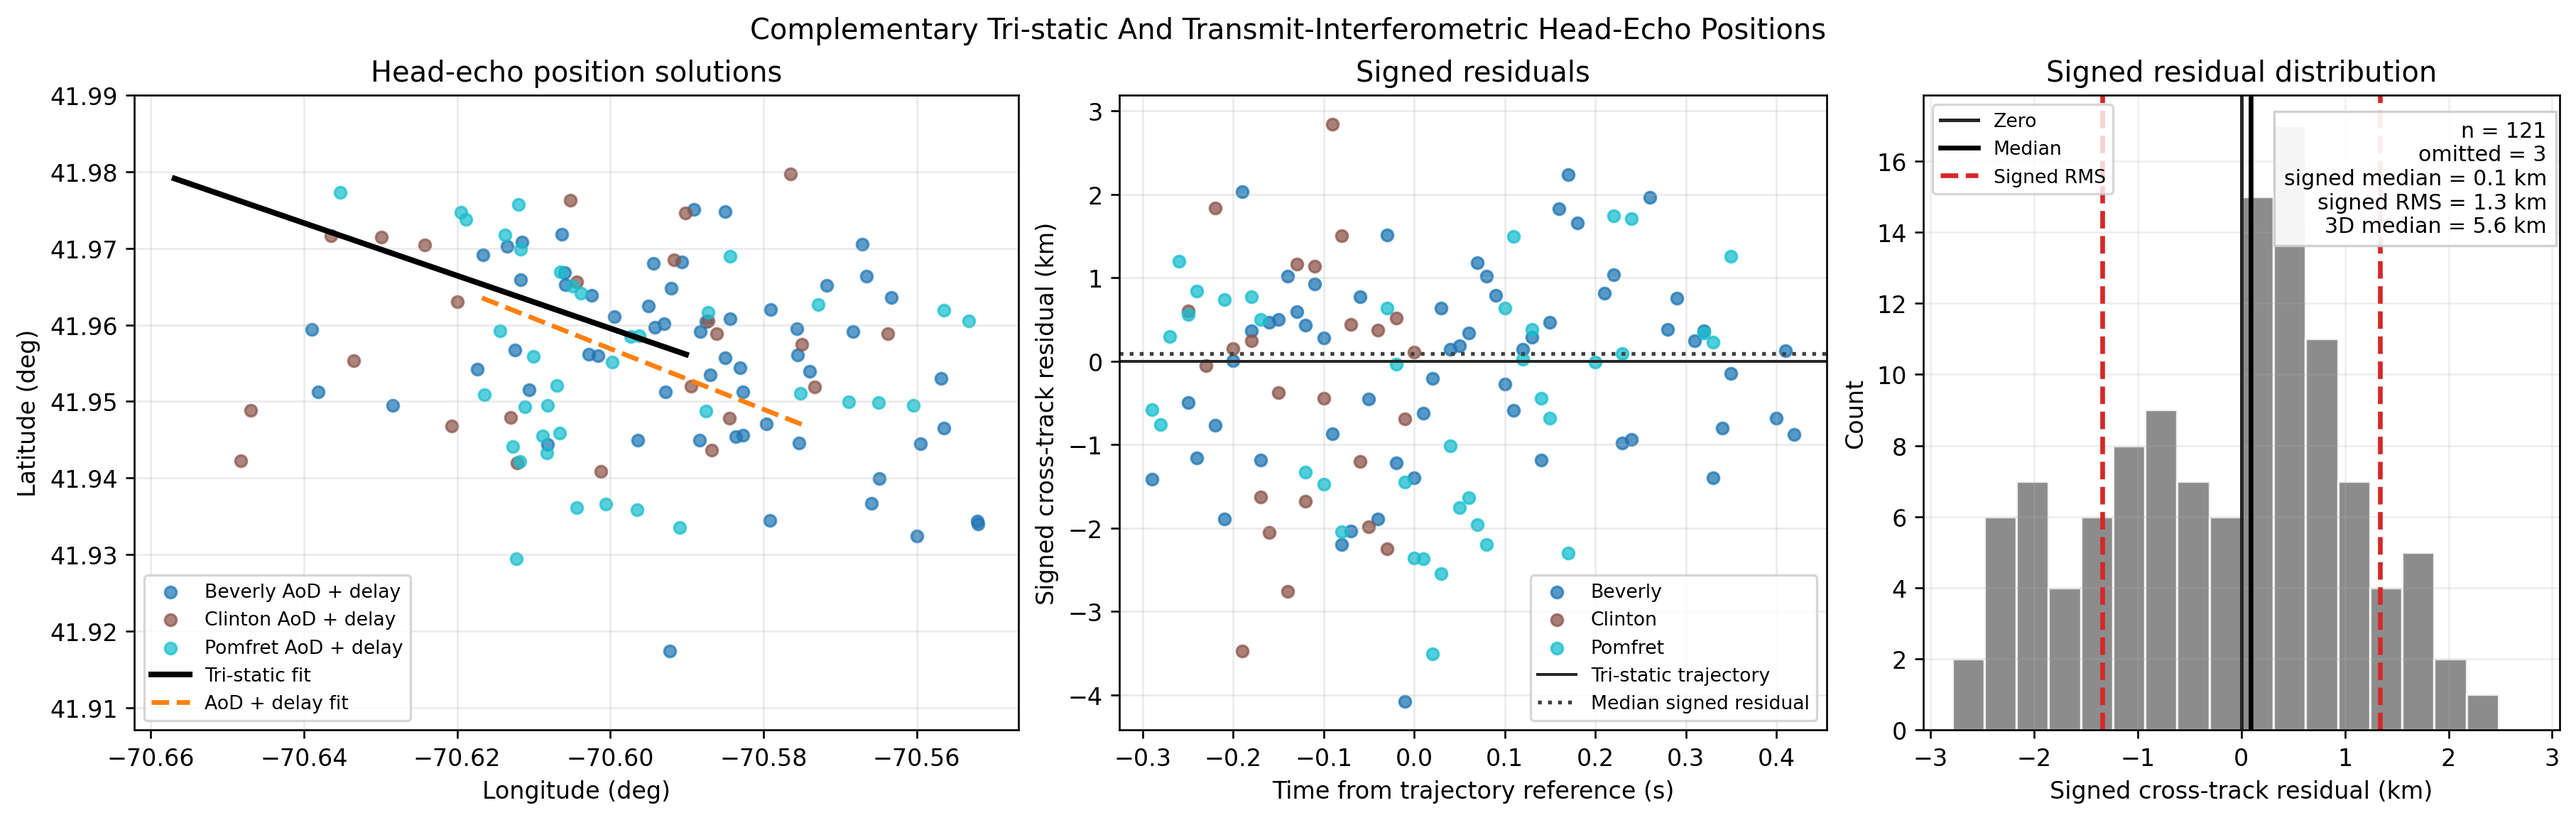
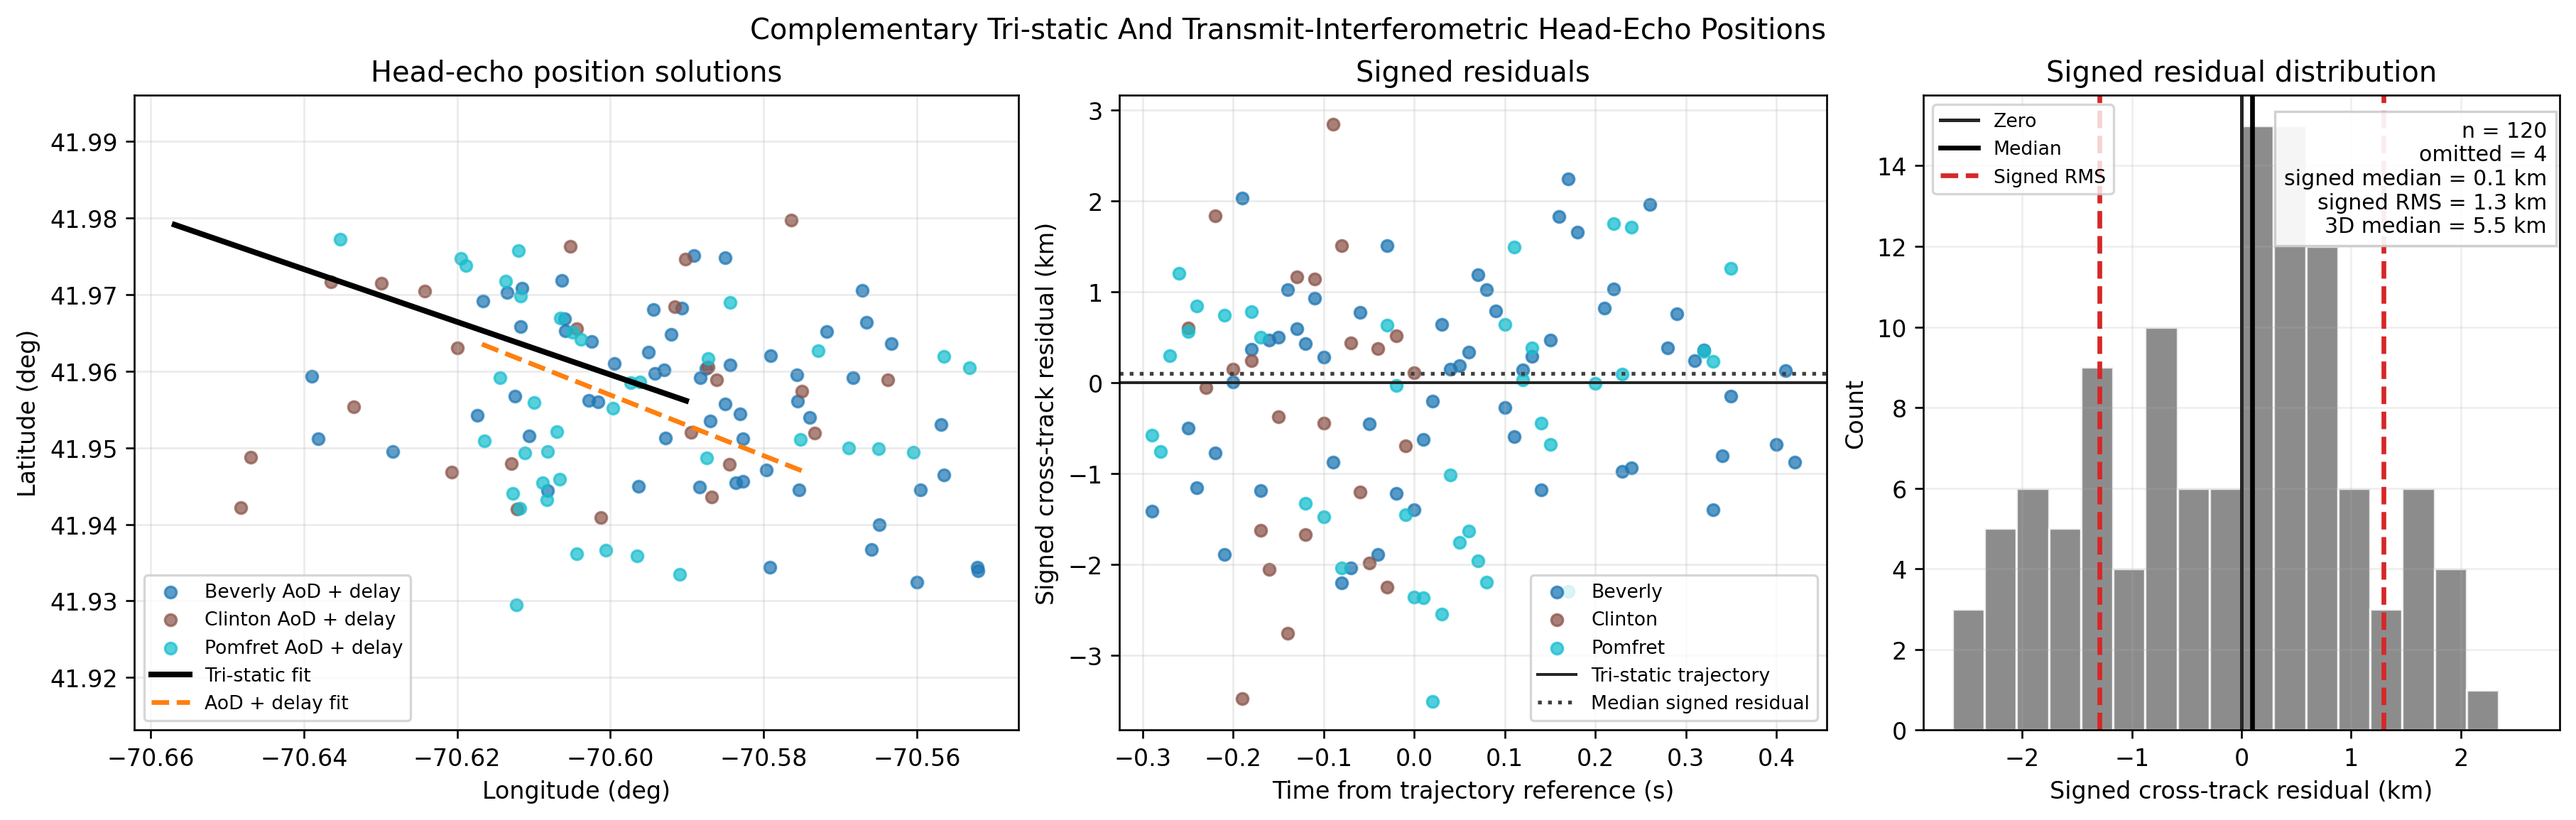
Filter Figure 17 cross-track residuals

diff --git a/aod_position_from_merged.py b/aod_position_from_merged.py
@@ -437,6 +437,8 @@ def write_report_summary(summary, out_tex):
         f"\\newcommand{{\\AodTriFigOutlierCutoffKm}}{{{fig_filter['cutoff_m']/1000.0:.1f}}}",
         f"\\newcommand{{\\AodTriFigMedianPointKm}}{{{fig_filter['median_position_error_vs_tristatic_m']/1000.0:.1f}}}",
         f"\\newcommand{{\\AodTriFigRmsPointKm}}{{{fig_filter['rms_position_error_vs_tristatic_m']/1000.0:.1f}}}",
+        f"\\newcommand{{\\AodTriFigMedianCrossTrackKm}}{{{fig_filter['median_signed_cross_track_km']:.1f}}}",
+        f"\\newcommand{{\\AodTriFigRmsCrossTrackKm}}{{{fig_filter['rms_signed_cross_track_km']:.1f}}}",
     ]
     out_tex = Path(out_tex)
     out_tex.parent.mkdir(parents=True, exist_ok=True)
@@ -467,11 +469,18 @@ def summarize(rows, line_fit, fit):
     pos = np.array([r["position_enu_m"] for r in rows])
     tri = np.array([model_fit_enu(fit, r["unix_time"]) for r in rows])
     err = np.linalg.norm(pos - tri, axis=1)
-    med_err = float(np.median(err))
-    scaled_mad = float(1.4826 * np.median(np.abs(err - med_err)))
-    cutoff_m = med_err + 6.0 * scaled_mad if scaled_mad > 0.0 else float(np.inf)
-    keep = err <= cutoff_m
+    tri_velocity = np.asarray(fit["fit_parameters_enu_at_tx"]["velocity_mps"], dtype=float)
+    ground_track = tri_velocity[:2]
+    ground_track_norm = np.linalg.norm(ground_track)
+    if ground_track_norm > 0.0:
+        cross_track_unit = np.array([-ground_track[1], ground_track[0], 0.0]) / ground_track_norm
+    else:
+        cross_track_unit = np.array([1.0, 0.0, 0.0])
+    signed_cross_track_km = ((pos - tri) @ cross_track_unit) / 1000.0
+    cutoff_m = 4000.0
+    keep = np.abs(signed_cross_track_km) <= cutoff_m / 1000.0
     filtered_err = err[keep]
+    filtered_signed_cross_track_km = signed_cross_track_km[keep]
     fit_pred = line_fit["predicted_enu_m"]
     tri_at_fit = np.array([model_fit_enu(fit, r["unix_time"]) for r in rows])
     fit_err = np.linalg.norm(fit_pred - tri_at_fit, axis=1)
@@ -495,13 +504,15 @@ def summarize(rows, line_fit, fit):
             "tristatic_speed_mps": float(np.linalg.norm(fit["fit_parameters_enu_at_tx"]["velocity_mps"])),
         },
         "figure_outlier_filter": {
-            "method": "3d_position_error_le_median_plus_6_scaled_mad",
+            "method": "abs_signed_cross_track_residual_le_4_km",
             "cutoff_m": float(cutoff_m),
             "n_used": int(np.sum(keep)),
             "n_rejected": int(np.sum(~keep)),
             "keep_mask": keep.astype(bool).tolist(),
             "median_position_error_vs_tristatic_m": float(np.median(filtered_err)),
             "rms_position_error_vs_tristatic_m": float(np.sqrt(np.mean(filtered_err**2))),
+            "median_signed_cross_track_km": float(np.median(filtered_signed_cross_track_km)),
+            "rms_signed_cross_track_km": float(np.sqrt(np.mean(filtered_signed_cross_track_km**2))),
         },
     }
 

diff --git a/reports/aod_tristatic_comparison_summary.tex b/reports/aod_tristatic_comparison_summary.tex
@@ -8,8 +8,10 @@
 \newcommand{\AodTriBeverlyMedianKm}{4.7}
 \newcommand{\AodTriClintonMedianKm}{5.7}
 \newcommand{\AodTriPomfretMedianKm}{6.1}
-\newcommand{\AodTriFigN}{121}
-\newcommand{\AodTriFigNRejected}{3}
-\newcommand{\AodTriFigOutlierCutoffKm}{20.3}
-\newcommand{\AodTriFigMedianPointKm}{5.6}
-\newcommand{\AodTriFigRmsPointKm}{5.9}
+\newcommand{\AodTriFigN}{120}
+\newcommand{\AodTriFigNRejected}{4}
+\newcommand{\AodTriFigOutlierCutoffKm}{4.0}
+\newcommand{\AodTriFigMedianPointKm}{5.5}
+\newcommand{\AodTriFigRmsPointKm}{5.8}
+\newcommand{\AodTriFigMedianCrossTrackKm}{0.1}
+\newcommand{\AodTriFigRmsCrossTrackKm}{1.3}
